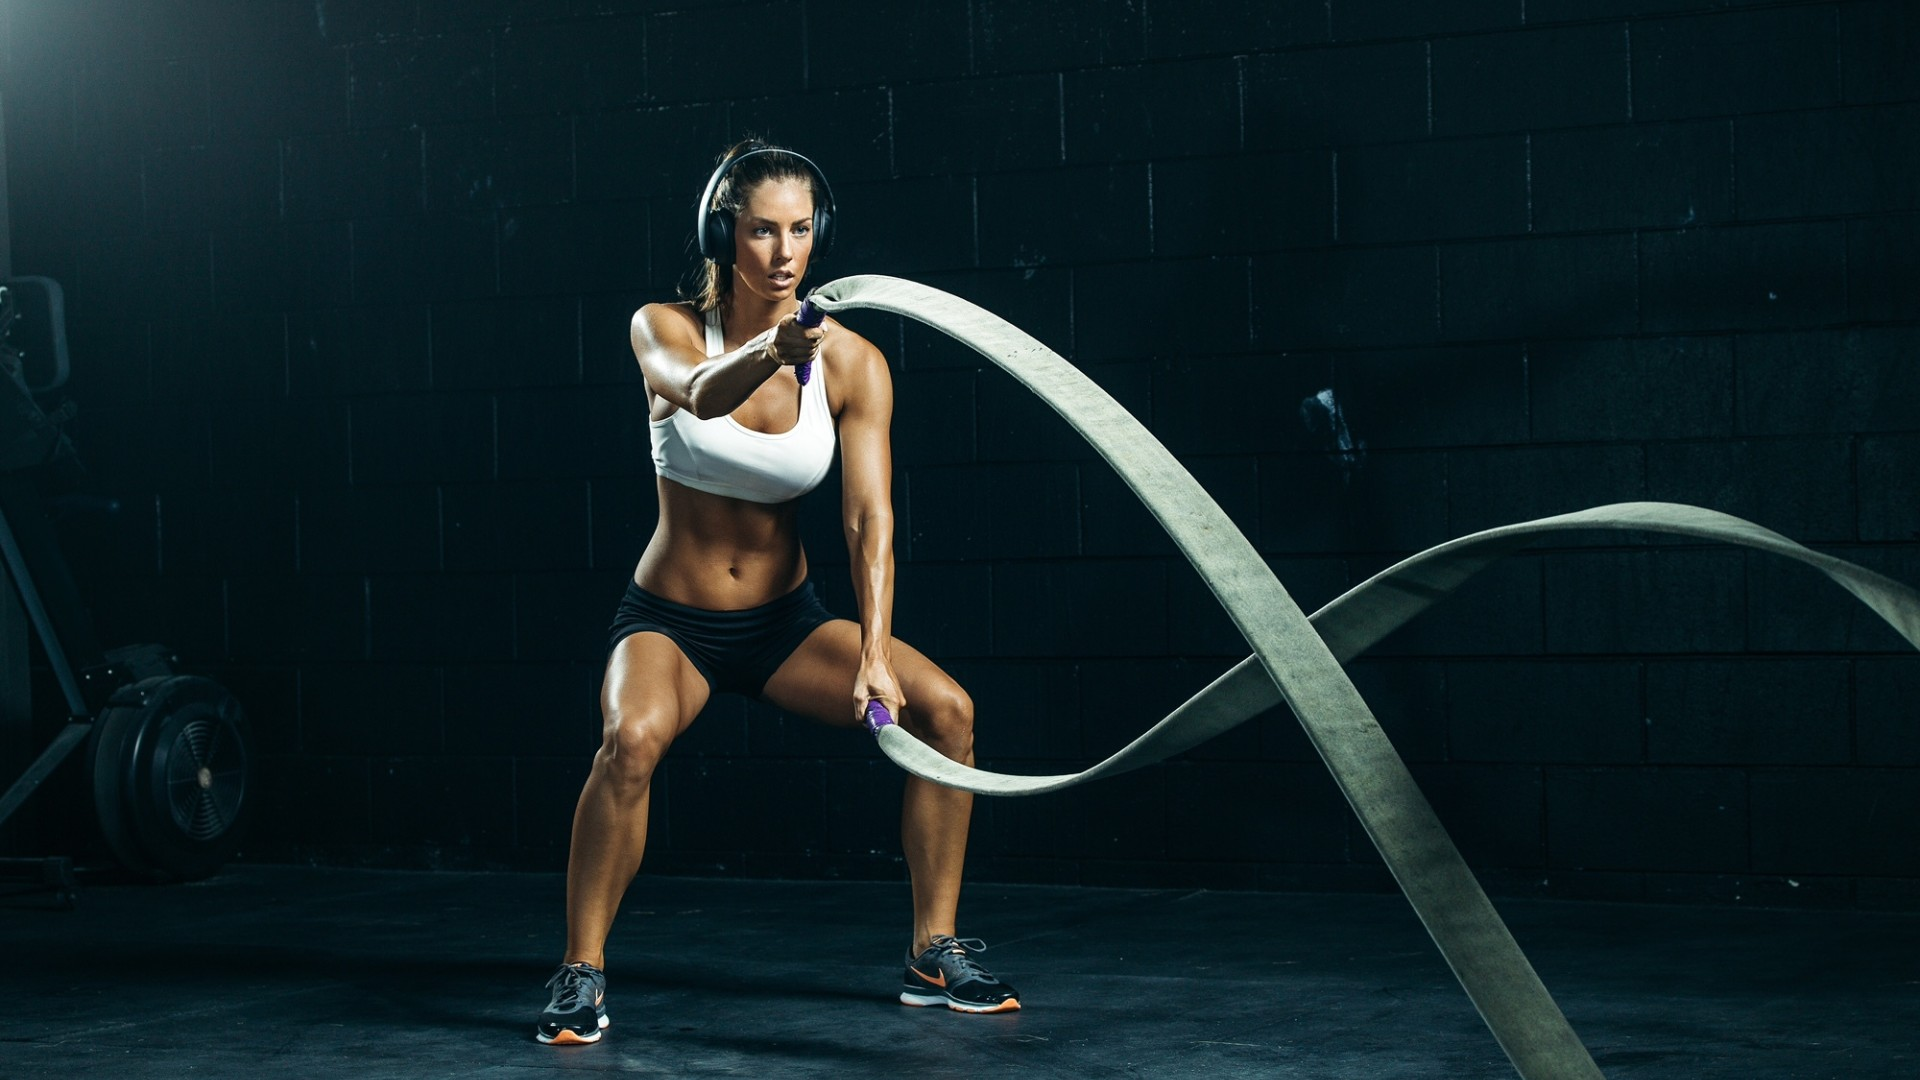
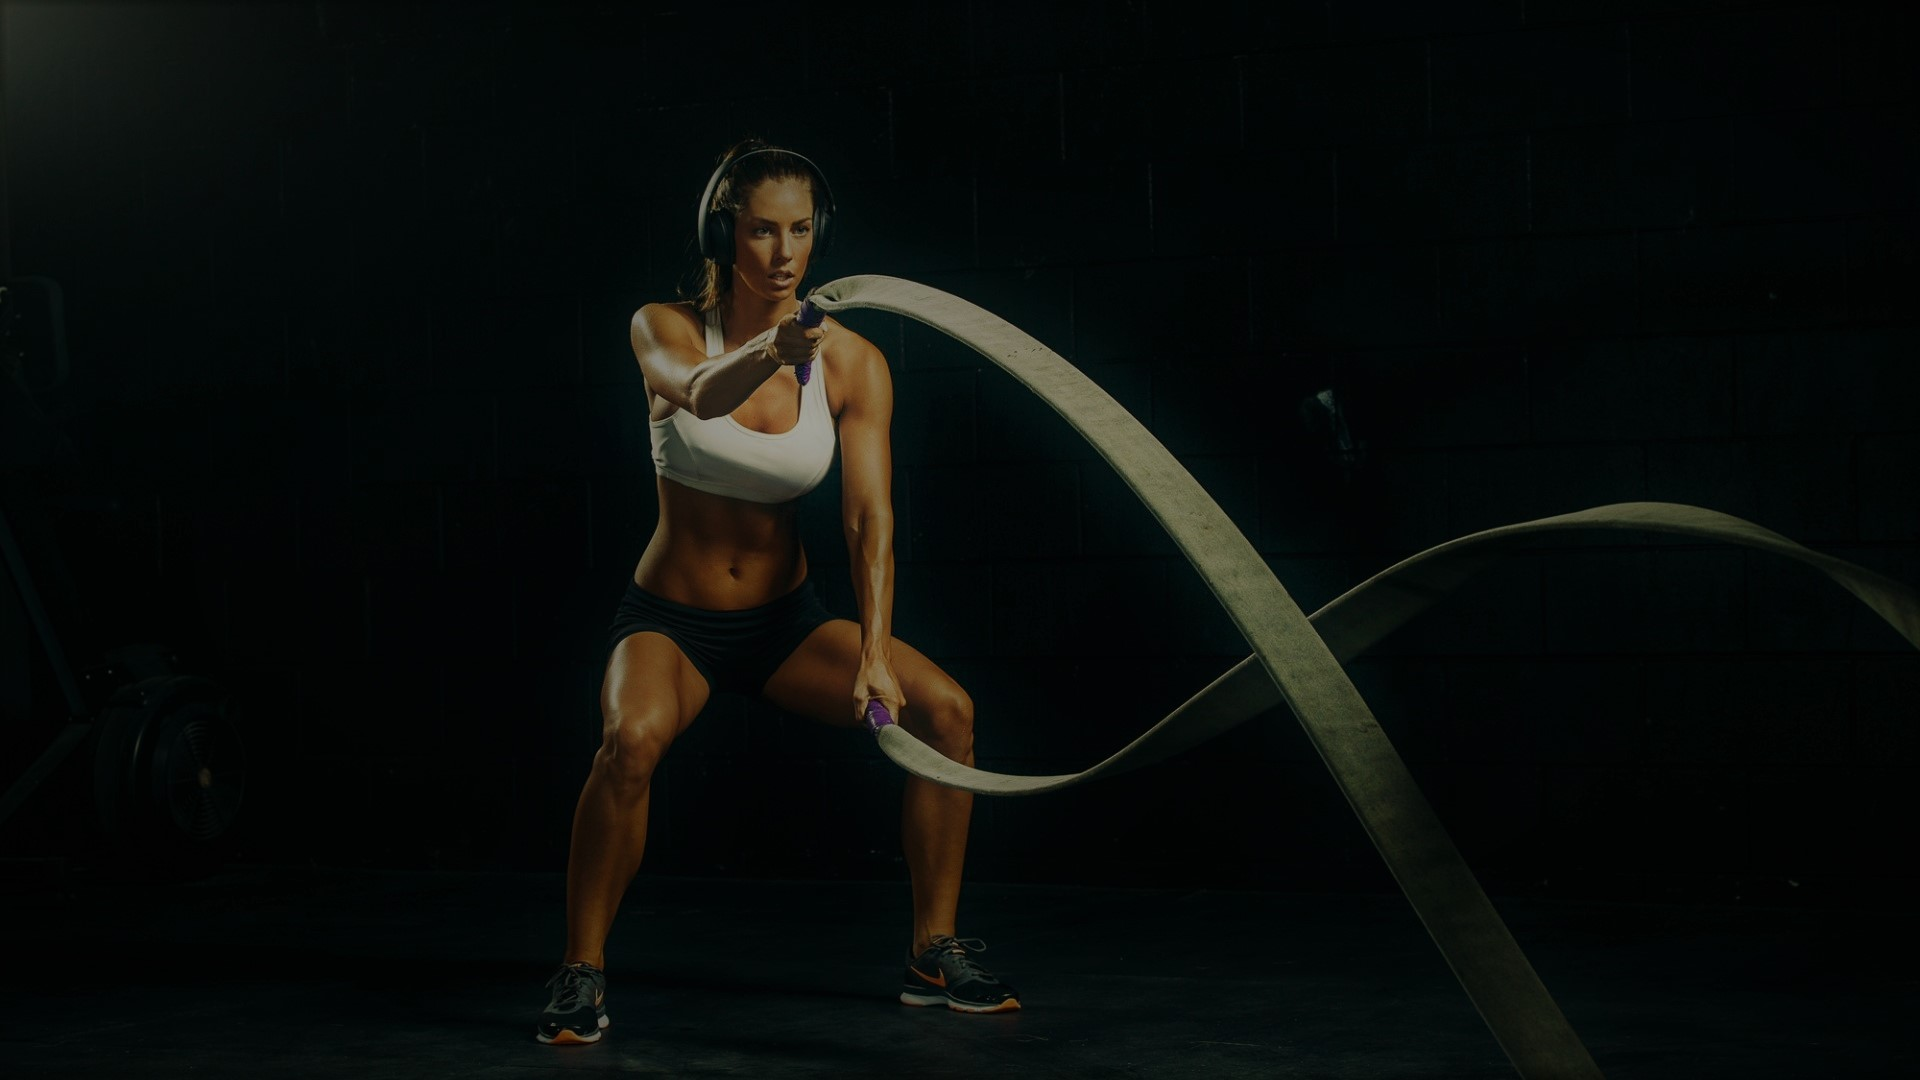
style: general fixes

diff --git a/public/css/rutinas.css b/public/css/rutinas.css
@@ -1,5 +1,5 @@
 body{
-    background-image: url(http://localhost/tp-fullstack-utn/public/images/fondo.jpg);
+    background-image: url("../images/fondo.jpg");
     background-size: cover;
     background-repeat: no-repeat;
     background-attachment: fixed;
@@ -201,4 +201,8 @@ button{
 
 .user-dashboard-info-box .candidates-list .thumb {
     margin-right: 20px;
+}
+
+h1 {
+    font-family: "Bebas Neue", cursive;
 }

diff --git a/public/css/navbar.css b/public/css/navbar.css
@@ -7,3 +7,9 @@ html {
     background-repeat: no-repeat;
     background-size: cover;
 }
+
+.darken-overlay div {
+    width: 100%;
+    height: 100%;
+    background-color: rgba(0, 0, 0, 0.5);
+  }

diff --git a/public/css/landing.css b/public/css/landing.css
@@ -51,3 +51,11 @@ img {
     max-width: 100%;
     height: auto;
 }
+
+.card-img-top {
+    width: 50%;
+}
+
+.montserrat {
+    font-family: "Montserrat", sans-serif;
+}

diff --git a/resources/views/landing.blade.php b/resources/views/landing.blade.php
@@ -8,7 +8,7 @@
 
 @section('customCSS')
 @parent
-<link rel="stylesheet" href="{{asset('css/landing.css')}}">
+<link rel="stylesheet" type="text/css" href="{{asset('css/landing.css')}}">
 @endsection
 
 @section('body')
@@ -20,8 +20,8 @@
     <section id="section1" class="container-fluid">
         <div class="row space-between align-items-center">
             <div class="col-md-6 text-white">
-                <h1 id="title">My Gym</h1>
-                <h2>Queremos hacerte lindo y fuerte papito</h2>
+                <h1 id="title">FitBox</h1>
+                <h2> La suerte es proporcional al sudor </h2>
             </div>
             <div id="animacion" class="col-md-4">
                 <iframe src='https://my.spline.design/cylindersanimationcopy-43c0e5e1ed68a1131b25d698596a2193/' class="embed-responsive-item" frameborder='0' width='100%' height='700px'></iframe>
@@ -30,31 +30,38 @@
     </section>
 
     <section id="section2">
-        <div class="container-fluid mx-auto">
-            <div class="row ">
-                <div class="col-md-6 align-items-center ">
+        <div class="container-fluid pt-5 mx-auto align-items-center">
+            <div class="row">
+                <div class="col-md-2"></div>
+                <div class="col-md-4 align-items-end ">
                     <h1 class=" display-1 mx-auto text-center mt-5">
-                        Voy a ser tu entrenador personal. Quedate tranquilo que conmigo te vas para arriba rey. Vas a ser una locura de músculos.
+                        Rafa Arretegui
                     </h1>
+                    <h2>
+                        Mi trabajo es hacerte mejorar
+                        tanto en tu físico como en tu mente. <br> <br>
+                        Empecé este proyecto gracias a mi pasión por el deporte
+                        Hoy contamos con algunos de los mejores profesores
+                        de Argentina para que te acompañen en tu camino.
+                    </h2>
                 </div>
-                <div class="col-md-6 align-items-center text-center">
-                    <img id="entrenador" src="{{asset('assets/entrenador.png')}}" class="img-fluid mt-5 mx-auto" alt="entrenador">
+                <div class="col-md-4 align-items-start text-center">
+                    <img id="entrenador" src="{{asset('assets/entrenador.png')}}" class="img-fluid mx-auto" alt="entrenador">
                 </div>
+                <div class="col-md-2"></div>
             </div>
         </div>
     </section>
 
     <section id="subscriptions" class="container-fluid">
-        <h1 class="text-center display-1 py-2 text-light">Suscripciones</h1>
+        <h1 class="text-center display-1 py-5 text-light">Suscripciones</h1>
         <div class="row row-cols-1 row-cols-md-3 g-4">
             <!-- Rookie -->
             <div class="col mt-3">
                 <div class="card">
-                    <img src="{{asset('assets/susc-1.png')}}" height="50px" width="auto" class="card-img-top" alt="Sub 1">
+                    <img src="{{asset('assets/susc-1.png')}}" class="card-img-top" alt="Sub 1">
                     <div class="card-body">
-                        <h3 class="card-title display-2">
-                            Rookie
-                        </h3>
+                        <h1 class="card-title display-2">Rookie</h1>
                         <h1 class="card-title pricing-card-title">$2200<small class="text-muted fw-light">/mes</small></h1>
                         <ul class="list-unstyled mt-3 mb-4">
                             <li>2 veces por semana</li>
@@ -67,7 +74,7 @@
                 <div class="card">
                     <img src="{{asset('assets/susc-2.png')}}" height="50px" width="auto" class="card-img-top" alt="Sub 2">
                     <div class="card-body">
-                        <h3 class="card-title display-2">Estándar</h3>
+                        <h1 class="card-title display-2">Estándar</h1>
                         <h1 class="card-title pricing-card-title">$2500<small class="text-muted fw-light">/mes</small></h1>
                         <ul class="list-unstyled mt-3 mb-4">
                             <li>3 veces por semana</li>
@@ -80,10 +87,10 @@
                 <div class="card">
                     <img src="{{asset('assets/susc-3.png')}}" height="50px" width="auto" class="card-img-top" alt="Sub 3">
                     <div class="card-body">
-                        <h3 class="card-title display-2">Pro</h3>
+                        <h1 class="card-title display-2">Pro</h1>
                         <h1 class="card-title pricing-card-title">$3000<small class="text-muted fw-light">/mes</small></h1>
                         <ul class="list-unstyled mt-3 mb-4">
-                            <li>Te venís cuando quieras padre</li>
+                            <li>Te venís cuando quieras</li>
                         </ul>
                     </div>
                 </div>

diff --git a/resources/views/clientes/marcas.blade.php b/resources/views/clientes/marcas.blade.php
@@ -1,17 +1,20 @@
-<!DOCTYPE html>
-<html lang="en">
-<head>
-    <meta charset="UTF-8">
-    <meta http-equiv="X-UA-Compatible" content="IE=edge">
-    <meta name="viewport" content="width=device-width, initial-scale=1.0">
-    <meta name="csrf-token" content="{{ csrf_token() }}" />
-    <script src="https://code.jquery.com/jquery-3.6.0.min.js" integrity="sha256-/xUj+3OJU5yExlq6GSYGSHk7tPXikynS7ogEvDej/m4=" crossorigin="anonymous"></script>
-    <script src="{{asset('js/marcas.js')}}"></script>
-    <link rel="stylesheet" href="{{asset('css/marcas.css')}}">
-    <link href="https://cdn.jsdelivr.net/npm/bootstrap@5.1.3/dist/css/bootstrap.min.css" rel="stylesheet" integrity="sha384-1BmE4kWBq78iYhFldvKuhfTAU6auU8tT94WrHftjDbrCEXSU1oBoqyl2QvZ6jIW3" crossorigin="anonymous">
-    <title>Document</title>
-</head>
-<body>
+@extends('layouts.with-navbar')
+
+@section('title', 'Marcas')
+
+@section('customJS')
+<script type="text/javascript" src="{{asset('js/marcas.js')}}"></script>
+@endsection
+
+@section('customCSS')
+@parent
+<link rel="stylesheet" href="{{asset('css/marcas.css')}}">
+@endsection
+
+@section('body')
+<!-- Navbar -->
+@parent
+
 <link rel="stylesheet" href="https://cdnjs.cloudflare.com/ajax/libs/font-awesome/5.13.1/css/all.min.css" integrity="sha256-2XFplPlrFClt0bIdPgpz8H7ojnk10H69xRqd9+uTShA=" crossorigin="anonymous" />
 <div class="container costado">
     <div class="form-group">
@@ -92,5 +95,4 @@
     </div>
   </div>
 </div>
-</body>
-</html>
+@endsection

diff --git a/resources/views/clientes/rutinas.blade.php b/resources/views/clientes/rutinas.blade.php
@@ -5,8 +5,8 @@
 
 @section('customCSS')
 @parent
-<link rel="stylesheet" href="{{asset('css/rutinas.css')}}">
 <link rel="stylesheet" href="{{asset('css/turnos.css')}}">
+<link rel="stylesheet" href="{{asset('css/rutinas.css')}}">
 @endsection
 
 @section('customJS')
@@ -17,12 +17,12 @@
 
 @section('body')
 @parent
-<main class="container-fluid bg-dark pb-3">
+<main class="container-fluid pb-3">
     <!-- Header -->
     <section id="frontHeader" class="container-fluid front-header-section">
         <div class="row space-between align-items-center">
-            <div class="col text-white py-4">
-                <p class="display-1">Gestionar Rutinas</p>
+            <div class="col text-light py-4" style='font-family: "Bebas Neue", cursive;'>
+                <h1 class="display-1">Gestionar Rutinas</h1>
             </div>
         </div>
     </section>

diff --git a/resources/views/layouts/with-navbar.blade.php b/resources/views/layouts/with-navbar.blade.php
@@ -18,7 +18,7 @@
             <!-- Navbar brand -->
             <a class="navbar-brand mt-2 mt-lg-0" href="#">
                 <img src="{{asset('assets/brand.png')}}" height="45" width="45" alt="App logo" loading="lazy" />
-                <h3 id="nombre_empresa" style="font-family: 'Bebas Neue', cursive">My Gym</h3>
+                <h3 id="nombre_empresa" style="font-family: 'Bebas Neue', cursive">FitBox</h3>
             </a>
             <!-- Left Content -->
             <div class="collapse navbar-collapse" id="navbarSupportedContent">
